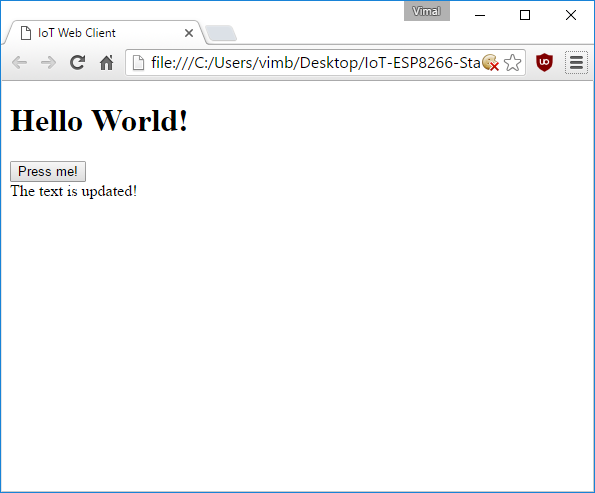
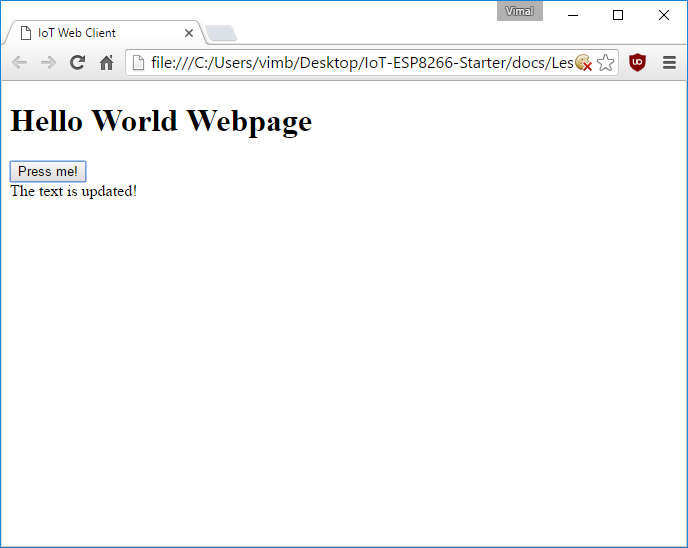
Lesson 6

Changed region(s): [[0.0, 0.0, 1.0, 1.0], [0.8773, 0.0, 0.9076, 0.0304]]

diff --git a/docs/Lesson_06/app.js b/docs/Lesson_06/app.js
@@ -1,0 +1,36 @@
+// Generate a new random MQTT client id on each page load
+var MQTT_CLIENT_ID = "iot_web_"+Math.floor((1 + Math.random()) * 0x10000000000).toString(16);
+
+// Create a MQTT client instance
+var MQTT_CLIENT = new Paho.MQTT.Client("iot.eclipse.org", 80, "/ws", MQTT_CLIENT_ID);
+
+// Tell the client instance to connect to the MQTT broker
+MQTT_CLIENT.connect({ onSuccess: myClientConnected });
+
+// This is the function which handles button clicks
+function myButtonWasClicked() {
+    // Select the tag with id="updateMe" and set its inner content
+    $("#updateMe").text("The text is updated!");
+}
+
+// This is the function which handles subscribing to topics after a connection is made
+function myClientConnected() {
+  MQTT_CLIENT.subscribe("<your_random_topic_root>/iot_tutorial/from_esp8266");
+}
+
+// This is the function which handles received messages
+function myMessageArrived(message) {
+  // Get the payload
+  var messageBody = message.payloadString;
+
+  // Create a new HTML element wrapping the message payload
+  var messageHTML = $("<p>"+messageBody+"</p>");
+
+  // Insert it inside the ```id=updateMe``` element above everything else that is there 
+  $("#updateMe").prepend(messageHTML);
+};
+
+// Tell MQTT_CLIENT to call myMessageArrived(message) each time a new message arrives
+MQTT_CLIENT.onMessageArrived = myMessageArrived;
+
+

diff --git a/docs/Lesson_06/index.html b/docs/Lesson_06/index.html
@@ -21,6 +21,9 @@
     <!-- import jquery library -->
     <script src="https://code.jquery.com/jquery-3.1.0.min.js"></script>
 
+    <!-- import paho MQTT library -->
+    <script src="https://cdnjs.cloudflare.com/ajax/libs/paho-mqtt/1.0.1/mqttws31.min.js" type="text/javascript"></script>
+
     <!-- our javascript -->
     <script src="app.js"></script>
   </body>

diff --git a/docs/Lesson_05/app.js b/docs/Lesson_05/app.js
@@ -1,3 +1,4 @@
+// This is the function which handles button clicks
 function myButtonWasClicked() {
     // Select the tag with id="updateMe" and set its inner content
     $("#updateMe").text("The text is updated!");

diff --git a/docs/Lesson_06/lesson.md b/docs/Lesson_06/lesson.md
@@ -5,4 +5,125 @@ title: Lesson 6
 
 # Lesson 6 - Javascript MQTT Subscribe
 
-Make your webpage subscribe to messages from an MQTT server
+Now that we have a basic website in place, let's update it to subscribe to a MQTT topic and display incoming messages.
+
+
+## Add an MQTT library
+
+Javascript running within a web broswer is not capable of making a raw network connection to an MQTT broker over the standard MQTT protocol and port. Fortunately most MQTT brokers also offer a websockets-based interface which can be accessed using a javascript library like [Paho](https://eclipse.org/paho/clients/js/).
+
+Let's add [Paho](https://eclipse.org/paho/clients/js/) to our website by adding a new ```<script>``` tag right above our app javascript ```<script>`` tag. To do that, replace the contents of the ```<body>``` tag in ```index.html``` with the following:
+
+```
+  <body>
+    <h1>Hello World Webpage</h1>
+
+    <!-- this is the secton wrapping our new button -->
+    <div>
+      <button onClick="myButtonWasClicked()">Press me!</button>
+    </div>
+
+    <!-- this is where new text will appear -->
+    <div id="updateMe">
+    </div>
+
+    <!-- import jquery library -->
+    <script src="https://code.jquery.com/jquery-3.1.0.min.js"></script>
+
+    <!-- import paho MQTT library -->
+    <script src="https://cdnjs.cloudflare.com/ajax/libs/paho-mqtt/1.0.1/mqttws31.min.js" type="text/javascript"></script>
+
+    <!-- our javascript -->
+    <script src="app.js"></script>
+  </body>
+```
+
+## Display messages from an MQTT topic
+
+### Generate a new unique client id
+
+Since each client which connects to an MQTT broker should use a unique identifier and since each windw wher eyour web page is open counts as a unique "client", let's randomly generate a new MQTT client id by placing the following line at the top of our ```app.js```:
+
+```
+// Generate a new random MQTT client id on each page load
+var MQTT_CLIENT_ID = "iot_web_"+Math.floor((1 + Math.random()) * 0x10000000000).toString(16);
+```
+
+
+### Connect to an MQTT Broker
+
+Now that we have a new client id, let's connect to an MQTT broker using its websockets interface. For this tutorial, we're using the same broker address that we used in our ESP8266 module Arduino code, but with a different port and the addition of a "path" to where the websockets interface is exposed:
+
+* address: iot.eclipse.org
+* port: 80
+* path: "/ws"
+
+In your ```app.js``` immediately after you generate the client id, add the following:
+
+```
+// Create a MQTT client instance
+var MQTT_CLIENT = new Paho.MQTT.Client("iot.eclipse.org", 80, "/ws", MQTT_CLIENT_ID);
+
+// Tell the client instance to connect to the MQTT broker
+MQTT_CLIENT.connect({ onSuccess: myClientConnected });
+```
+
+Note: Once the MQTT client successfully connects to the MQTT broker, it will attempt to run the function ```myClientConnected()```. This hasn't yet been defined, but in javascript it's okay reference a function and then define it later, as long as you don't try to *use* the reference until after it has been defined. This feature of the javascript language is known as [hoisting](http://www.w3schools.com/js/js_hoisting.asp)
+
+
+### Create a client connected callback function
+
+As noted above, we need to create a function named ```myClientConnected()``` which will be run after the MQTT client connection has been established. In this function we can do things like subscribe the topic that our ESP8266 module is publishing messages to. 
+
+To do this, add the following code to the bottom of ```app.js```:
+
+```
+// This is the function which handles subscribing to topics after a connection is made
+function myClientConnected() {
+  MQTT_CLIENT.subscribe("<your_random_topic_root>/iot_tutorial/from_esp8266");
+}
+```
+
+Note: You should remember to replace ```<your_random_topic_root>``` with the exact same value that you used in your Arduino code where you are publishing messages. 
+
+
+### Create a message received callback function
+
+Each time we receive a message from the MQTT broker, we want to take the payload and append it somewhere on our web page HTML.
+
+Let's create a function named ```myMessageArrived()``` and then tell the mqtt client to run that function each time a message arrives. 
+
+To does this, add the following code to the bottom of ```app.js```:
+
+```
+// This is the function which handles received messages
+function myMessageArrived(message) {
+  // Get the payload
+  var messageBody = message.payloadString;
+
+  // Create a new HTML element wrapping the message payload
+  var messageHTML = $("<p>"+messageBody+"</p>");
+
+  // Insert it inside the ```id=updateMe``` element above everything else that is there 
+  $("#updateMe").prepend(messageHTML);
+};
+
+// Tell MQTT_CLIENT to call myMessageArrived(message) each time a new message arrives
+MQTT_CLIENT.onMessageArrived = myMessageArrived;
+```
+
+## Test your webpage
+
+Before we proceed, make sure your index.html looks like [this](index.html) and your app.js looks like [this](app.js).
+
+Close any open copies of your mini website that you may have, and then double-click on ```index.html``` to open it up in a new browser window or tab. Wait a couple seconds, and you should start to see incoming message payloads sent by your ESP8266 module running your Arduino code: 
+
+![Javascript MQTT Sub](js_mqtt_sub.png "Javascript MQTT Sub")
+
+If you don't see any incoming messages, a couple things to double-check include:
+
+* Make sure your ESP8266 module is plugged in and running, otherwise it can't publish messages
+* Make sure the ESP8266 module has successfully connected to ```iot.eclipse.org``` port ```1883```
+* Make sure your webpage has successfully connected to ```iot.eclipse.org``` port ```80``` path ```/ws```
+* Make sure the topic name your ESP8266 is publishing to exactly matches the topic name your web page is subscribing to
+

diff --git a/docs/Lesson_05/lesson.md b/docs/Lesson_05/lesson.md
@@ -10,7 +10,7 @@ Just as you were getting comfortable with Arduino, let's switch over to making a
 There are thousands of good resources online for learning basic HTML, CSS, and Javascript, and there are thousands of tools, utilities, libraries, and frameworks to choose from.
 
 
-## Create an ```index.html``` web page
+## Create an index.html web page
 
 For a good introduction to HTML syntax and some basic tags, check out the [w3schools HTML tutorial](http://www.w3schools.com/html/default.asp)
 
@@ -30,7 +30,7 @@ For this tutorial, we'll be making an exteremly simple HTML page.
 
   <!-- this is an HTML comment -->
   <body>
-    <h1>Hello World!</h1>
+    <h1>Hello World Webpage</h1>
   </body>
 
 </html>
@@ -41,7 +41,7 @@ Now if you double-click on index.html it should open up in a web browser and you
 ![HTML Hello World](html_hello_world.png "HTML Hello World")
 
 
-## Create an ```app.js``` javascript script
+## Create an app.js javascript script
 
 For a good introduction to Javascript syntax and some basic functions, check out the [w3schools Javascript tutorial](http://www.w3schools.com/js/default.asp)
 
@@ -56,7 +56,7 @@ alert("Hello world from javascript!");
 ```
 
 
-## Add javascript to ```index.html```
+## Add javascript to index.html
 
 Javascript can be added to a HTML page by including ```<script>``` tags which reference external javascript files.
 
@@ -66,9 +66,12 @@ Let's add the jquery javascript library and our own custom javascript file to ou
 
 ```
   <body>
-    <h1>Hello World!</h1>
+    <h1>Hello World Webpage</h1>
 
+    <!-- import jquery library -->
     <script src="https://code.jquery.com/jquery-3.1.0.min.js"></script>
+
+    <!-- our javascript -->
     <script src="app.js"></script>
   </body>
 ```
@@ -86,14 +89,17 @@ As an example first let's add a ```<button>``` tag to the body. To do that, repl
 
 ```
   <body>
-    <h1>Hello World!</h1>
+    <h1>Hello World Webpage</h1>
 
     <!-- this is the secton wrapping our new button -->
     <div>
       <button onClick="myButtonWasClicked()">Press me!</button>
     </div>
 
+    <!-- import jquery library -->
     <script src="https://code.jquery.com/jquery-3.1.0.min.js"></script>
+
+    <!-- our javascript -->
     <script src="app.js"></script>
   </body>
 ```
@@ -119,7 +125,7 @@ As an example first let's add an empty ```<div>``` tag to the body which we will
 
 ```
   <body>
-    <h1>Hello World!</h1>
+    <h1>Hello World Webpage</h1>
 
     <!-- this is the secton wrapping our new button -->
     <div>
@@ -130,7 +136,10 @@ As an example first let's add an empty ```<div>``` tag to the body which we will
     <div id="updateMe">
     </div>
 
+    <!-- import jquery library -->
     <script src="https://code.jquery.com/jquery-3.1.0.min.js"></script>
+
+    <!-- our javascript -->
     <script src="app.js"></script>
   </body>
 ```
@@ -138,6 +147,7 @@ As an example first let's add an empty ```<div>``` tag to the body which we will
 Now let's change our button to update the ```<div>``` text instead of showing an alert. In ```app.js```, replace the ```myButtonWasClicked()``` function with the following:
 
 ```
+// This is the function which handles button clicks
 function myButtonWasClicked() {
     // Select the tag with id="updateMe" and set its inner content
     $("#updateMe").text("The text is updated!");

diff --git a/docs/Lesson_04/lesson.md b/docs/Lesson_04/lesson.md
@@ -16,6 +16,14 @@ For this tutorial we will use the free public [```iot.eclipse.org```](http://iot
 * address: iot.eclipse.org
 * port: 1883 (tcp), 80 (websockets)
 
+#### MQTT Clients
+
+Each client device which connects to an MQTT broker is asked to provide a unique client identifier. The broker uses this unique client identifier to track clients and push messages to them. 
+
+If a broker receives multiple connections with the same client identifier, it may choose to send messages to only one of them, even if they all subscribed to the same topic. 
+
+In general each physical device client should have a unique client identifier. Likewise, each running copy of a software client should have its own unique client identifier. 
+
 
 #### MQTT Topics
 
@@ -64,7 +72,7 @@ Near the top of your sketch immediately underneath all of the existing #include 
 PubSubClient MQTT_CLIENT;
 ```
 
-## Create a ```reconnect()``` function
+## Create a reconnect() function
 
 Network connections are not always perfectly reliable - they sometimes get accidentally disconnected which means all network-aware code should be capable of reconnecting as necessary.
 
@@ -82,7 +90,7 @@ void reconnect() {
   while (!MQTT_CLIENT.connected()) {
     // Attempt to connect
     Serial.println("Attempt to connect to MQTT broker");
-    MQTT_CLIENT.connect("<your_random_device_name>");
+    MQTT_CLIENT.connect("<your_random_device_client_id>");
 
     // Wait some time to space out connection requests
     delay(3000);
@@ -92,10 +100,10 @@ void reconnect() {
 }
 ```
 
-Note: Be sure to replace ```<your_random_device_name>``` with a randomly chosen identifier for your device, like ```esp8266_4562234```
+Note: Be sure to replace ```<your_random_device_client_id>``` with a randomly chosen identifier for your device, like ```esp8266_4562234```
 
 
-## Update ```loop()``` to reconnect and publish a message
+## Update loop() to reconnect and publish a message
 
 Our old ```loop()``` simply blinked an LED, but now we need it to be a bit smarter. Specifically every 5 seconds, let's have it do the following:
 

diff --git a/docs/Lesson_02/lesson.md b/docs/Lesson_02/lesson.md
@@ -10,7 +10,7 @@ title: Lesson 2
 1. Open Arduino and make sure you see a default sketch
 2. Go to File->Save As and save it as ```MyIoTWidget``` in a convenient location
 
-## Add some ```#include```
+## Add some #includes
 
 At the top of your sketch, add the following code:
 
@@ -25,7 +25,7 @@ This will "include" a reference to ESP8266-specific libraries and constants whic
 Note: Anything that comes after ```//``` is a comment - it will be ignored by Arduino but is helpful to keep around so that you remember what your code is supposed to do.
 
 
-## Add some ```#define```
+## Add some #defines
 
 In the Arduino language, you can define one name to mean something else using ```#define```. This is typically used to make your code easier to read. 
 
@@ -40,7 +40,7 @@ Right after the ```#include``` lines you added earlier, but before ```setup()```
 Here we have included a ```#define``` for each of the pins that we will use on the ESP8266 module - this way we can refer to them by the names we have given above rather than having to remember their pin numbers.
 
 
-## Update ```setup()```
+## Update setup()
 
 The code within the curly braces of the ```setup()``` function is run once every time the ESP8266 starts up. Let's change this function to the following: 
 
@@ -60,7 +60,7 @@ void setup() {
 }
 ```
 
-## Update ```loop()```
+## Update loop()
 
 The code within the curly braces of the ```loop()``` function is run once in a never-ending loop. let's change this function to the following:
 

diff --git a/docs/Lesson_03/lesson.md b/docs/Lesson_03/lesson.md
@@ -5,7 +5,7 @@ title: Lesson 3
 
 # Lesson 3 - ESP8266 WiFi Setup
 
-## Connect to WiFi in ```setup()```
+## Connect to WiFi in setup()
 
 We generally want to connect to WiFi as soon as our module starts up, so let's add the following code to the end of ```setup()```
 
